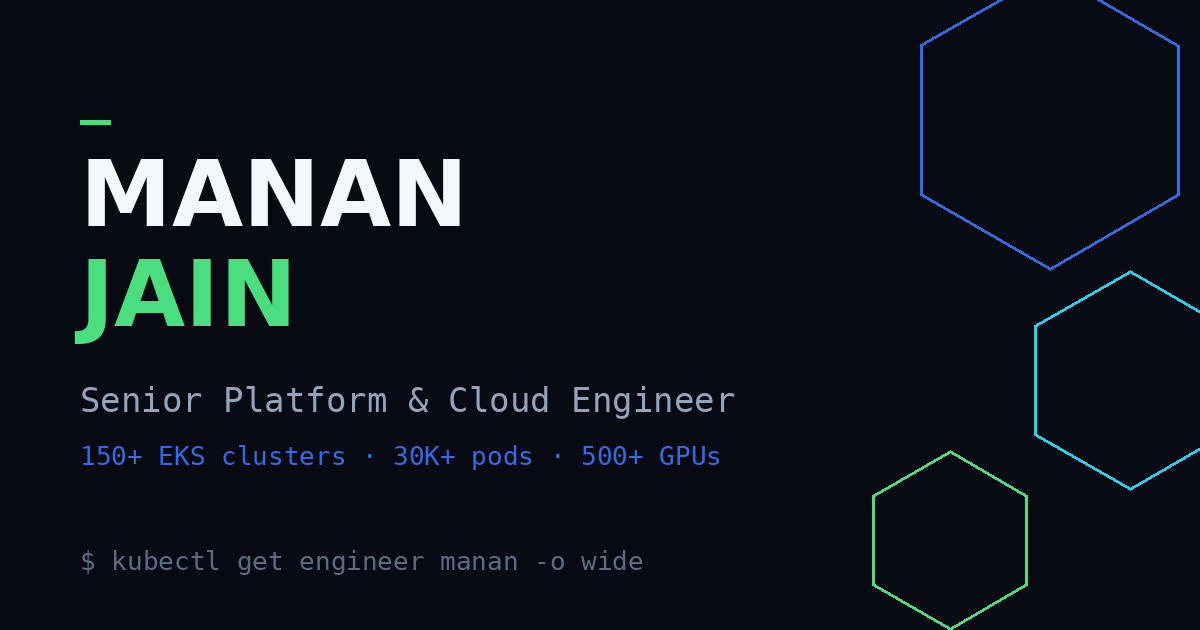
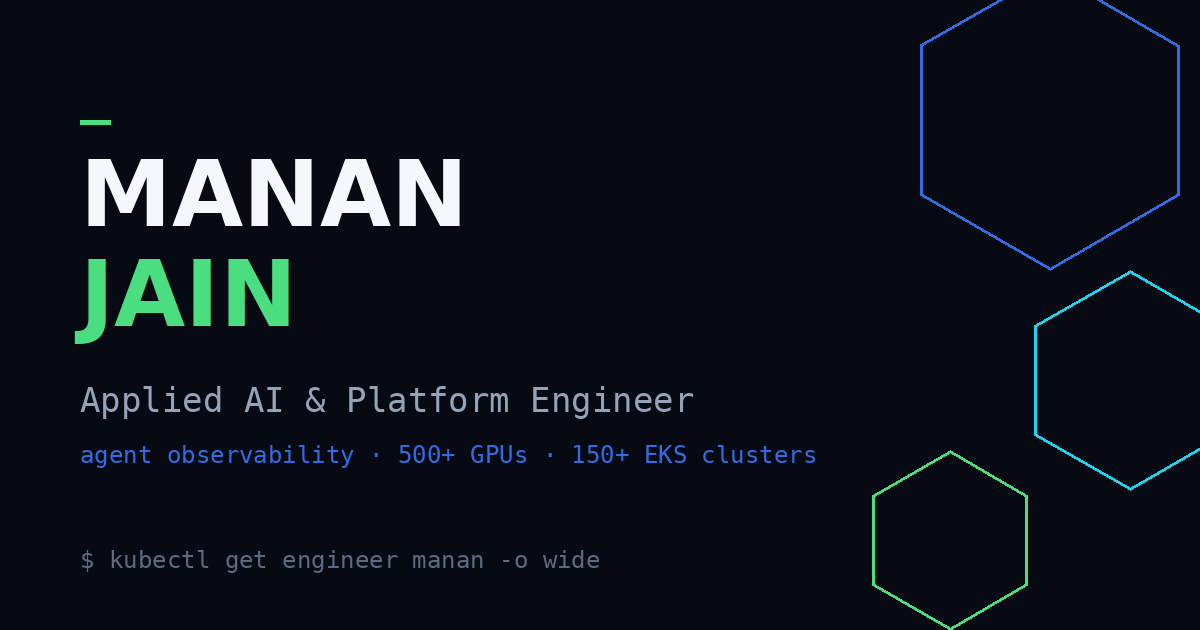
reposition: Applied AI & Platform Engineer

Changed region(s): [[0.0617, 0.6937, 0.6783, 0.754], [0.0617, 0.6032, 0.6167, 0.6635], [0.0617, 0.8746, 0.555, 0.9048]]

diff --git a/index.html b/index.html
@@ -3,22 +3,22 @@
 <head>
 <meta charset="UTF-8">
 <meta name="viewport" content="width=device-width, initial-scale=1.0">
-<title>Manan Jain — Senior Platform &amp; Cloud Engineer</title>
-<meta name="description" content="Manan Jain — Senior Platform &amp; Cloud Engineer. Large-scale Kubernetes on AWS: 150+ EKS clusters, 30K+ pods, an LLM inference platform on 500+ GPUs, and GitOps that runs it all.">
+<title>Manan Jain — Applied AI &amp; Platform Engineer</title>
+<meta name="description" content="Manan Jain — Applied AI &amp; Platform Engineer. Building observable, safe, auditable LLM agents; previously an LLM inference platform on 500+ GPUs and 150+ EKS clusters.">
 <link rel="preconnect" href="https://fonts.googleapis.com">
 <link href="https://fonts.googleapis.com/css2?family=Space+Grotesk:wght@500;700&family=Inter:wght@400;500;600&family=JetBrains+Mono:wght@400;700&display=swap" rel="stylesheet">
 <link rel="icon" type="image/svg+xml" href="assets/favicon.svg">
 <meta property="og:type" content="website">
 <meta property="og:site_name" content="Manan Jain">
-<meta property="og:title" content="Manan Jain — Senior Platform &amp; Cloud Engineer">
-<meta property="og:description" content="Manan Jain — Senior Platform &amp; Cloud Engineer. Large-scale Kubernetes on AWS: 150+ EKS clusters, 30K+ pods, an LLM inference platform on 500+ GPUs, and GitOps that runs it all.">
+<meta property="og:title" content="Manan Jain — Applied AI &amp; Platform Engineer">
+<meta property="og:description" content="Manan Jain — Applied AI &amp; Platform Engineer. Building observable, safe, auditable LLM agents; previously an LLM inference platform on 500+ GPUs and 150+ EKS clusters.">
 <meta property="og:url" content="https://manan.info/">
 <meta property="og:image" content="https://manan.info/assets/og-card.png">
 <meta property="og:image:width" content="1200">
 <meta property="og:image:height" content="630">
 <meta name="twitter:card" content="summary_large_image">
-<meta name="twitter:title" content="Manan Jain — Senior Platform &amp; Cloud Engineer">
-<meta name="twitter:description" content="Manan Jain — Senior Platform &amp; Cloud Engineer. Large-scale Kubernetes on AWS: 150+ EKS clusters, 30K+ pods, an LLM inference platform on 500+ GPUs, and GitOps that runs it all.">
+<meta name="twitter:title" content="Manan Jain — Applied AI &amp; Platform Engineer">
+<meta name="twitter:description" content="Manan Jain — Applied AI &amp; Platform Engineer. Building observable, safe, auditable LLM agents; previously an LLM inference platform on 500+ GPUs and 150+ EKS clusters.">
 <meta name="twitter:image" content="https://manan.info/assets/og-card.png">
 <link rel="stylesheet" href="assets/style.css">
 <script type="application/ld+json">
@@ -26,14 +26,14 @@
   "@context": "https://schema.org",
   "@type": "Person",
   "name": "Manan Jain",
-  "jobTitle": "Senior Platform & Cloud Engineer",
+  "jobTitle": "Applied AI & Platform Engineer",
   "email": "mailto:jainmanan1804@gmail.com",
   "url": "https://manan.info/",
   "image": "https://manan.info/assets/photo.jpg",
   "sameAs": ["https://www.linkedin.com/in/manan-jain-91616a184/"],
   "worksFor": { "@type": "Organization", "name": "ZS Associates" },
   "address": { "@type": "PostalAddress", "addressLocality": "Bengaluru", "addressCountry": "IN" },
-  "knowsAbout": ["Kubernetes", "Amazon EKS", "Terraform", "GitOps", "ArgoCD", "GPU infrastructure", "Platform Engineering", "CI/CD"]
+  "knowsAbout": ["LLM agent observability", "AI guardrails", "Kubernetes", "Amazon EKS", "Terraform", "GitOps", "ArgoCD", "GPU infrastructure", "Platform Engineering", "CI/CD"]
 }
 </script>
 </head>
@@ -48,13 +48,14 @@
       <div>
         <span class="badge"><span class="pulse"></span>status: Running &nbsp;·&nbsp; agent observability &amp; guardrails @ ZS</span>
         <h1>Manan <span class="grad">Jain</span></h1>
-        <div class="role">$ I <span class="accent" data-type='["scaled Kubernetes to 150+ EKS clusters.","ran 500+ GPUs at ~80% utilization.","build GitOps that scales.","turn toil into Terraform."]'></span><span class="cursor"></span></div>
+        <div class="role">$ I <span class="accent" data-type='["make LLM agents safe and auditable.","scaled Kubernetes to 150+ EKS clusters.","ran 500+ GPUs at ~80% utilization.","build GitOps that scales.","turn toil into Terraform."]'></span><span class="cursor"></span></div>
         <p class="sub">
-          Senior Platform &amp; Cloud Engineer who has run large-scale Kubernetes on AWS —
-          <strong>150+ EKS clusters, ~1,000 nodes, 30K+ pods</strong> serving 40+ engineering teams —
-          and built an LLM inference platform on <strong>500+ Spot GPUs</strong> at ~60% lower
-          compute cost. Now leading an agent observability and guardrails platform at
-          ZS — PII/PHI and secrets detection, red teaming, and end-to-end agent audit.
+          <strong>Applied AI &amp; Platform Engineer</strong> building the infrastructure that makes LLM
+          agents observable, safe, and auditable. At ZS, I'm leading an agent observability and
+          guardrails platform: PII/PHI and secrets detection, red teaming, and end-to-end agent audit.
+          Before that, I architected an LLM inference platform on <strong>500+ Spot GPUs</strong> at
+          ~60% lower compute cost, and ran <strong>150+ EKS clusters, ~1,000 nodes, and 30K+ pods</strong>
+          for 40+ engineering teams.
         </p>
         <div class="hero-actions">
           <a class="btn solid" href="work.html">explore my work →</a>

diff --git a/about.html b/about.html
@@ -4,20 +4,20 @@
 <meta charset="UTF-8">
 <meta name="viewport" content="width=device-width, initial-scale=1.0">
 <title>About — Manan Jain</title>
-<meta name="description" content="About Manan Jain — Senior Platform &amp; Cloud Engineer specializing in fleet-scale AWS and Kubernetes automation.">
+<meta name="description" content="About Manan Jain — Applied AI &amp; Platform Engineer specializing in fleet-scale AWS and Kubernetes automation.">
 <link href="https://fonts.googleapis.com/css2?family=Space+Grotesk:wght@500;700&family=Inter:wght@400;500;600&family=JetBrains+Mono:wght@400;700&display=swap" rel="stylesheet">
 <link rel="icon" type="image/svg+xml" href="assets/favicon.svg">
 <meta property="og:type" content="website">
 <meta property="og:site_name" content="Manan Jain">
 <meta property="og:title" content="About — Manan Jain">
-<meta property="og:description" content="About Manan Jain — Senior Platform &amp; Cloud Engineer specializing in fleet-scale AWS and Kubernetes automation.">
+<meta property="og:description" content="About Manan Jain — Applied AI &amp; Platform Engineer specializing in fleet-scale AWS and Kubernetes automation.">
 <meta property="og:url" content="https://manan.info/about.html">
 <meta property="og:image" content="https://manan.info/assets/og-card.png">
 <meta property="og:image:width" content="1200">
 <meta property="og:image:height" content="630">
 <meta name="twitter:card" content="summary_large_image">
 <meta name="twitter:title" content="About — Manan Jain">
-<meta name="twitter:description" content="About Manan Jain — Senior Platform &amp; Cloud Engineer specializing in fleet-scale AWS and Kubernetes automation.">
+<meta name="twitter:description" content="About Manan Jain — Applied AI &amp; Platform Engineer specializing in fleet-scale AWS and Kubernetes automation.">
 <meta name="twitter:image" content="https://manan.info/assets/og-card.png">
 <link rel="stylesheet" href="assets/style.css">
 </head>
@@ -32,7 +32,7 @@
       <div>
         <span class="eyebrow">$ kubectl describe engineer manan</span>
         <h1>Infrastructure that runs itself<span class="accent">_</span></h1>
-        <p class="lede">I'm Manan — a Senior Platform &amp; Cloud Engineer who believes the best infrastructure
+        <p class="lede">I'm Manan — an Applied AI &amp; Platform Engineer who believes the best infrastructure
         work is invisible: things upgrade themselves, deploys don't page anyone, and new teams
         onboard without a meeting.</p>
       </div>

diff --git a/resume.html b/resume.html
@@ -4,20 +4,20 @@
 <meta charset="UTF-8">
 <meta name="viewport" content="width=device-width, initial-scale=1.0">
 <title>Resume — Manan Jain</title>
-<meta name="description" content="Resume of Manan Jain — Senior Platform &amp; Cloud Engineer. 150+ EKS clusters, 30K+ pods, GPU/LLM platform on 500+ GPUs, GitOps at scale.">
+<meta name="description" content="Resume of Manan Jain — Applied AI &amp; Platform Engineer. 150+ EKS clusters, 30K+ pods, GPU/LLM platform on 500+ GPUs, GitOps at scale.">
 <link href="https://fonts.googleapis.com/css2?family=Space+Grotesk:wght@500;700&family=Inter:wght@400;500;600&family=JetBrains+Mono:wght@400;700&display=swap" rel="stylesheet">
 <link rel="icon" type="image/svg+xml" href="assets/favicon.svg">
 <meta property="og:type" content="website">
 <meta property="og:site_name" content="Manan Jain">
 <meta property="og:title" content="Resume — Manan Jain">
-<meta property="og:description" content="Resume of Manan Jain — Senior Platform &amp; Cloud Engineer. 150+ EKS clusters, 30K+ pods, GPU/LLM platform on 500+ GPUs, GitOps at scale.">
+<meta property="og:description" content="Resume of Manan Jain — Applied AI &amp; Platform Engineer. 150+ EKS clusters, 30K+ pods, GPU/LLM platform on 500+ GPUs, GitOps at scale.">
 <meta property="og:url" content="https://manan.info/resume.html">
 <meta property="og:image" content="https://manan.info/assets/og-card.png">
 <meta property="og:image:width" content="1200">
 <meta property="og:image:height" content="630">
 <meta name="twitter:card" content="summary_large_image">
 <meta name="twitter:title" content="Resume — Manan Jain">
-<meta name="twitter:description" content="Resume of Manan Jain — Senior Platform &amp; Cloud Engineer. 150+ EKS clusters, 30K+ pods, GPU/LLM platform on 500+ GPUs, GitOps at scale.">
+<meta name="twitter:description" content="Resume of Manan Jain — Applied AI &amp; Platform Engineer. 150+ EKS clusters, 30K+ pods, GPU/LLM platform on 500+ GPUs, GitOps at scale.">
 <meta name="twitter:image" content="https://manan.info/assets/og-card.png">
 <link rel="stylesheet" href="assets/style.css">
 </head>

diff --git a/assets/main.js b/assets/main.js
@@ -221,7 +221,7 @@ const SITE = {
       "  terraform apply      → make it official",
       "  uptime | clear | sudo",
     ].join("\n"),
-    whoami: "manan jain — senior platform & cloud engineer.\nI've run large-scale kubernetes on AWS — 150+ EKS clusters,\n~1,000 nodes, 30K+ pods, 40+ teams — and built an LLM\ninference platform on 500+ spot GPUs.\nnow: agent observability & guardrails @ zs.",
+    whoami: "manan jain — applied ai & platform engineer.\nI've run large-scale kubernetes on AWS — 150+ EKS clusters,\n~1,000 nodes, 30K+ pods, 40+ teams — and built an LLM\ninference platform on 500+ spot GPUs.\nnow: agent observability & guardrails @ zs.",
     work: "featured work → ./work.html\n\n  [0] LLM inference platform on 500+ GPUs (~60% cheaper)\n  [1] terraform ECS multi-service CI/CD module\n  [2] EKS fleet upgrade orchestrator (150+ clusters)\n  [3] GitOps addon platform on ArgoCD (120+ apps)\n  [4] fleet health & observability (2,500+ endpoints)\n  [5] bulk CI/CD modernization (500+ pipelines)\n  [6] self-service onboarding & multi-tenancy\n  [7] k8sAgent — AI agent that speaks kubectl\n  [8] k8lens — in-cluster health radar",
     blog: "field notes → ./blog.html\n\n  [1] kro — custom k8s APIs without controllers (talk)\n  [2] the 4-layer GPU optimization stack\n  [3] the interruption-native GPU platform\n  [4] a doctrine for kubernetes fleet upgrades\n  [5] inventory-driven gitops\n  [6] the grounded agent — LLMs that operate infra\n  [7] probe-native observability",
     ventures: "the builder mindset → ./ventures.html\n\n  GlassMic        modernizing decorative & packaging glass mfg\n  AI Smart Insole iPhone TrueDepth scan → custom insole platform",
